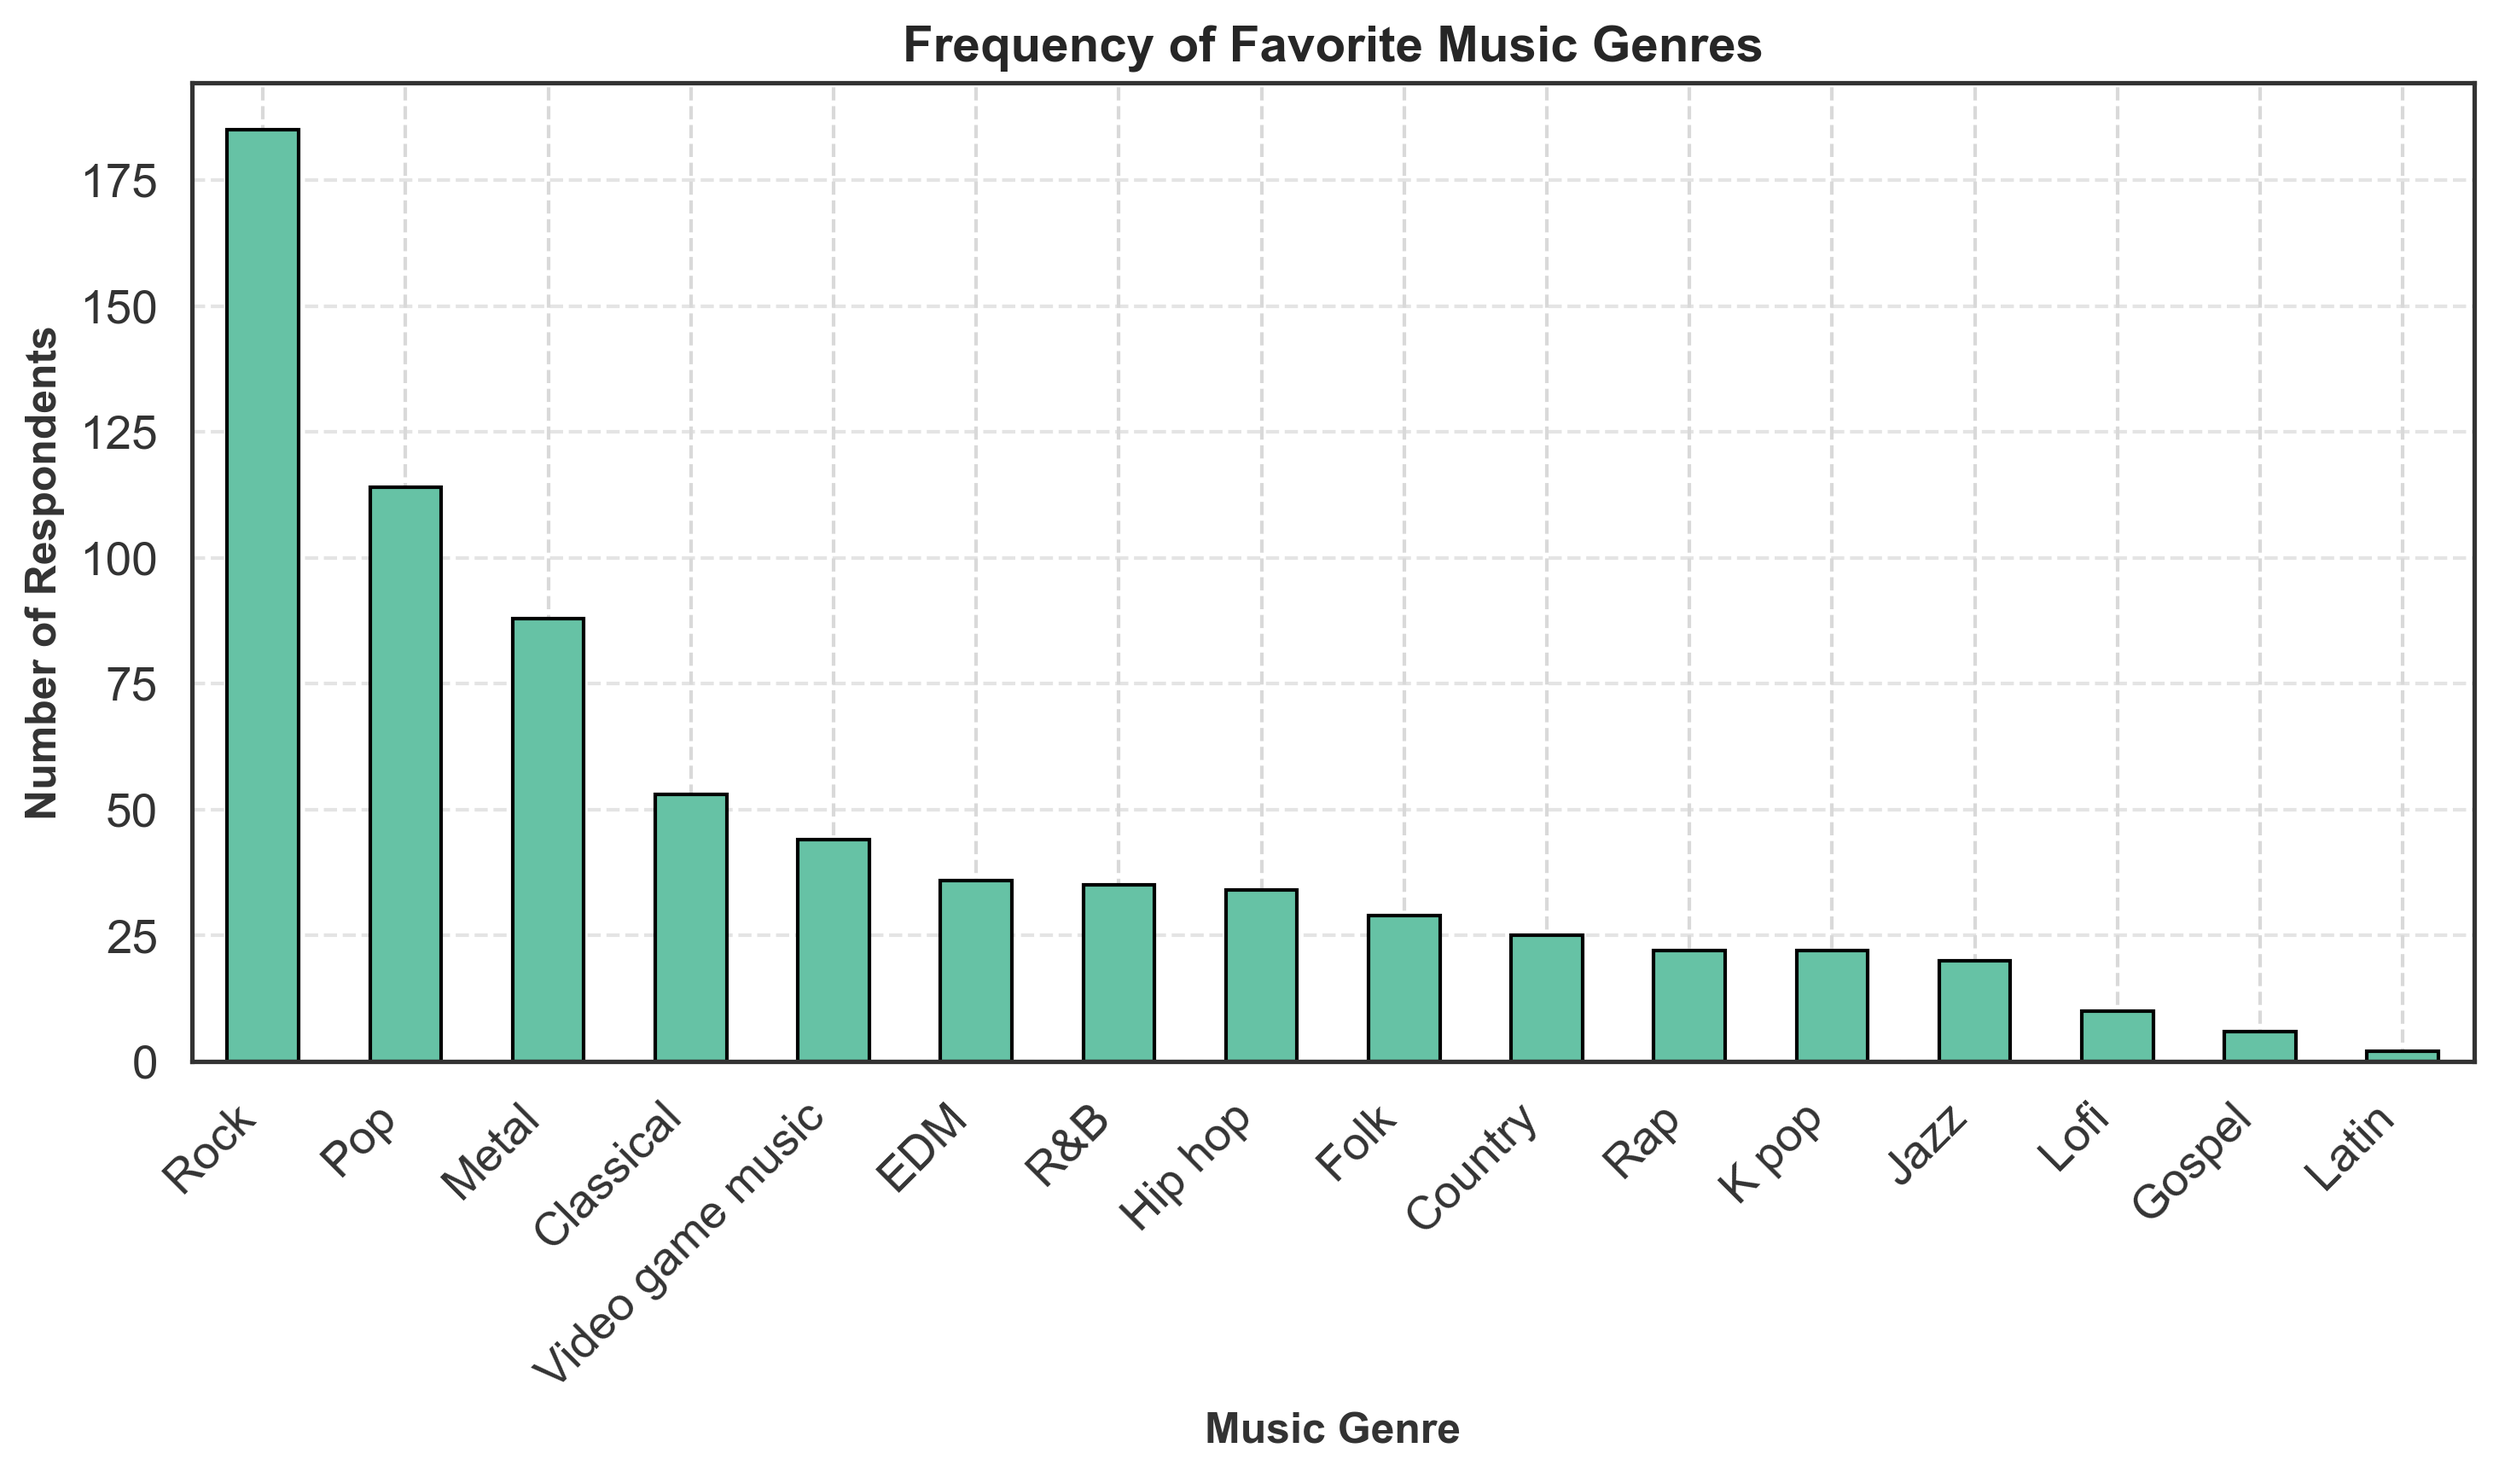
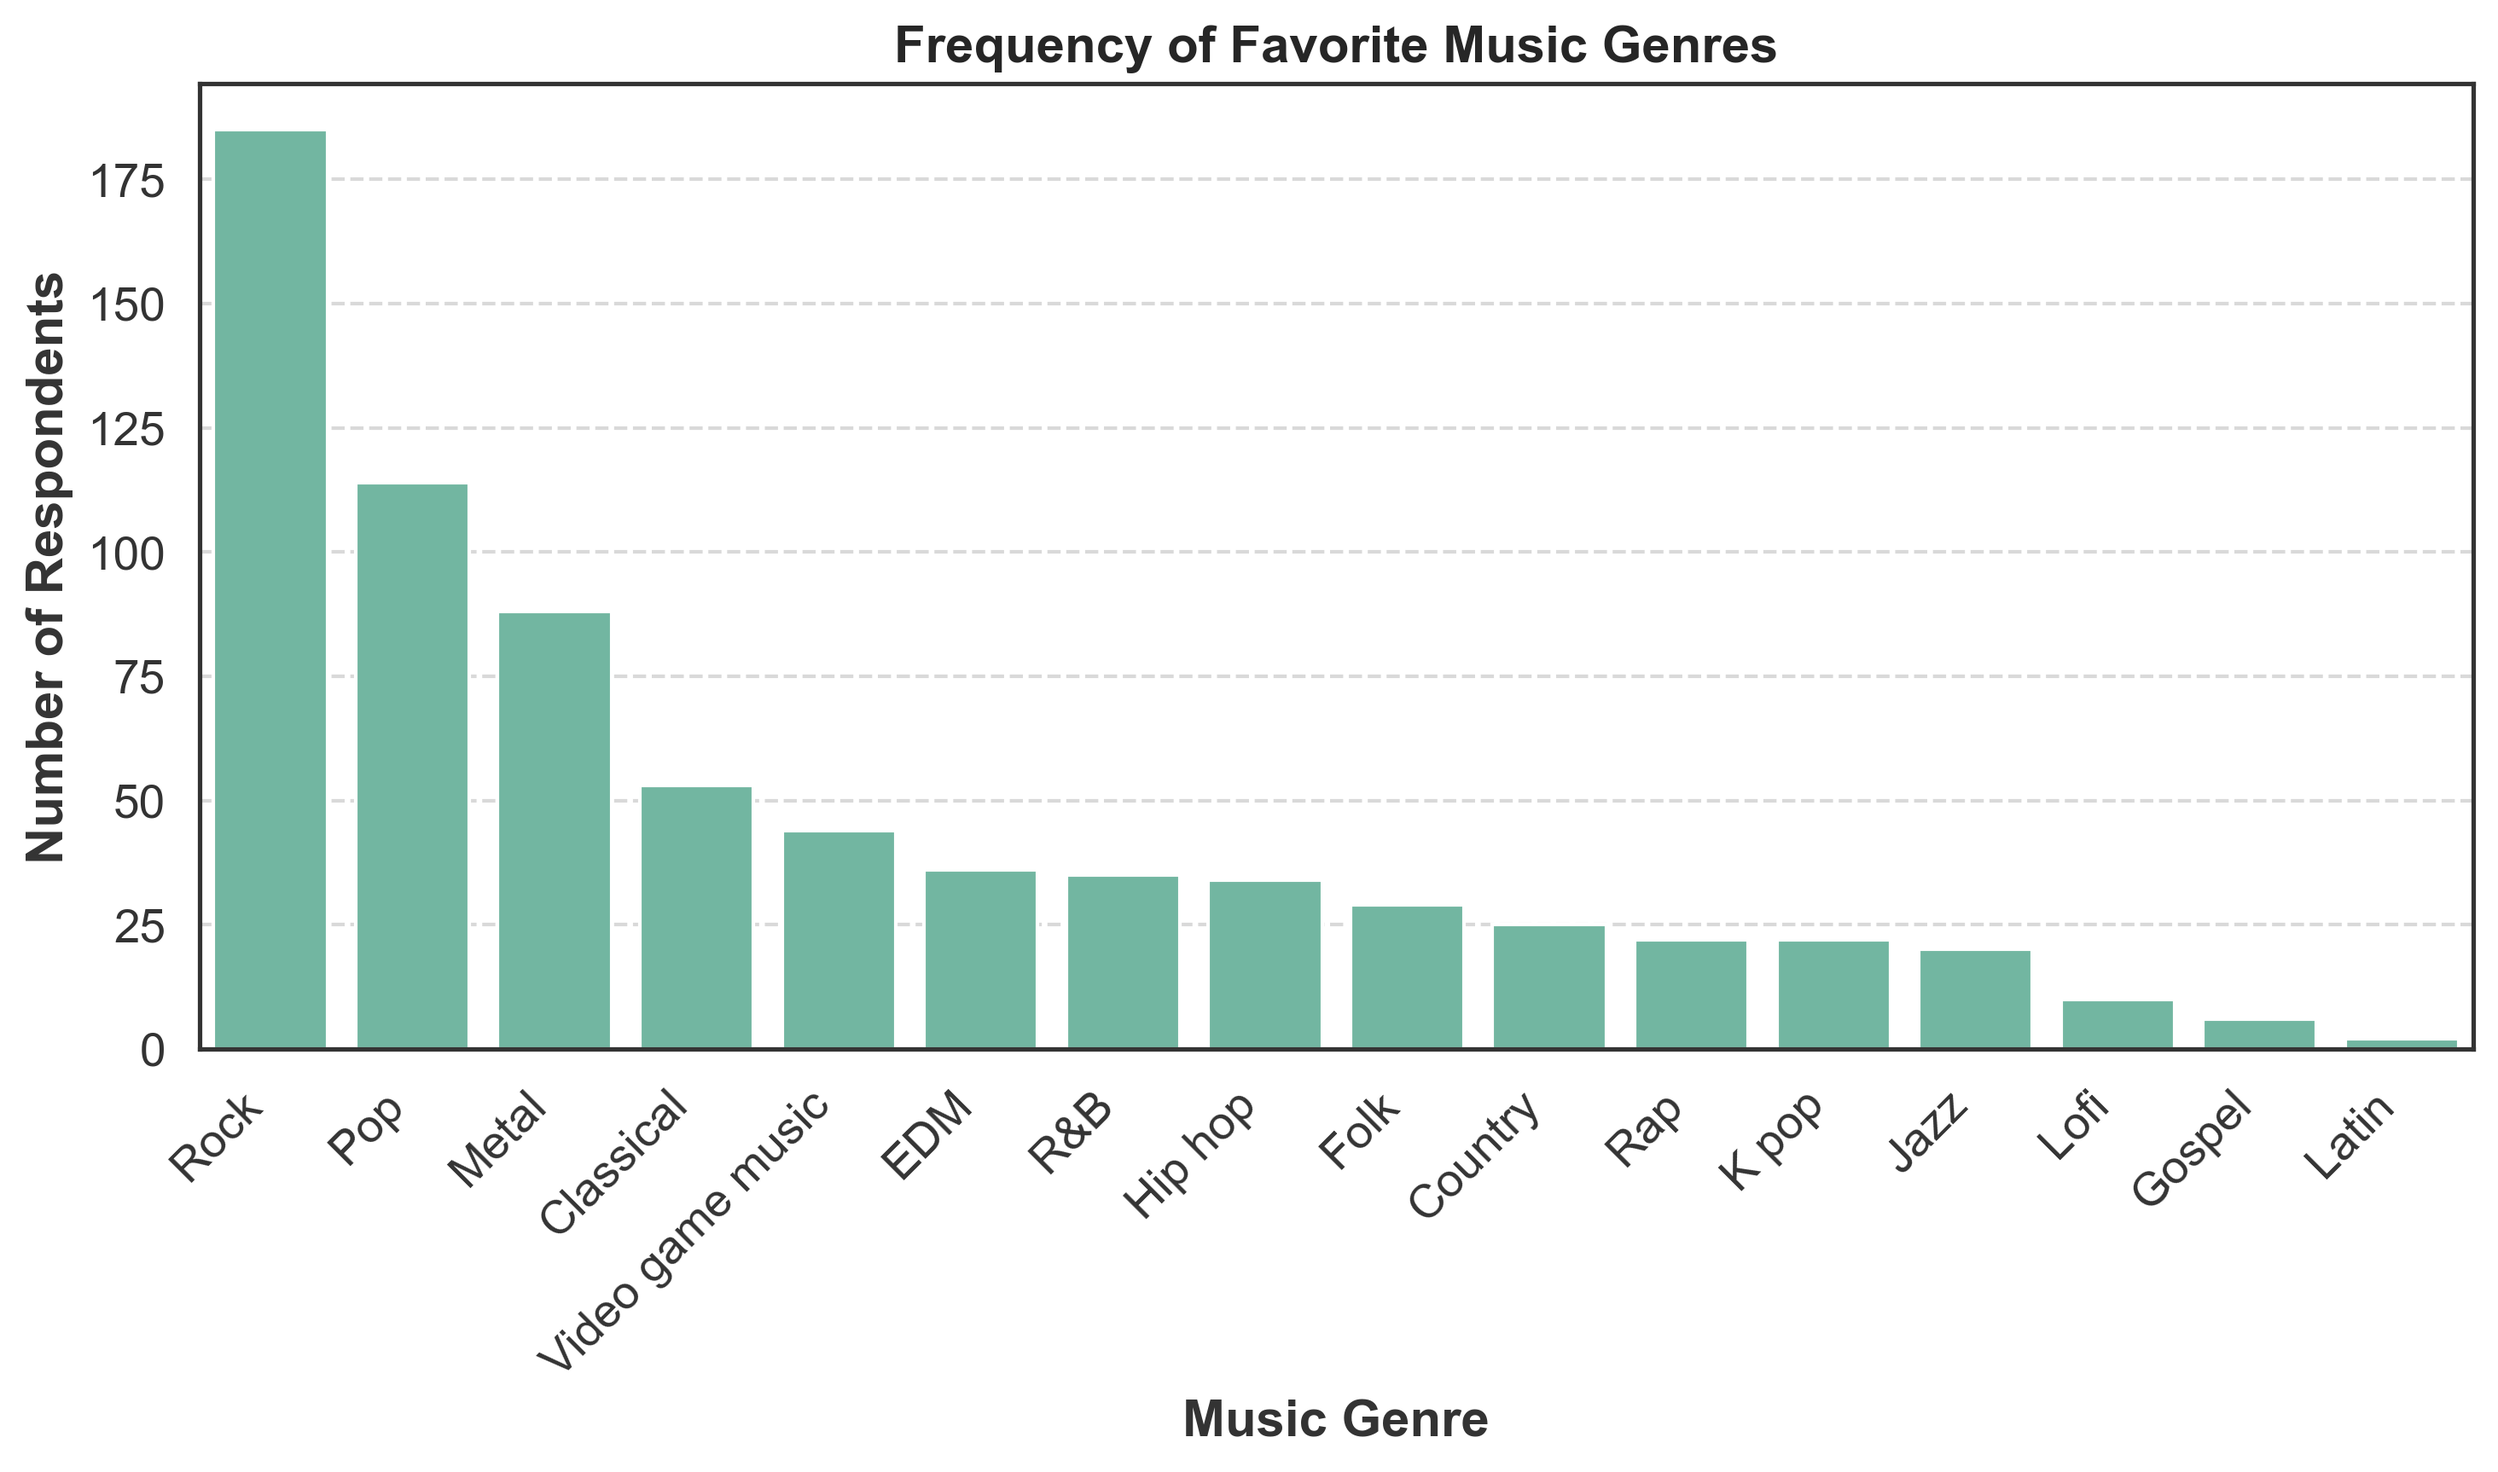
Enhance genre distribution and listening pie charts with improved aesthetics and optional display control

diff --git a/PlotCreator.py b/PlotCreator.py
@@ -20,14 +20,8 @@ plt.rcParams["grid.color"] = "0.85"
 plt.rcParams["grid.linestyle"] = "--"
 plt.rcParams["legend.frameon"] = False
 
-def plot_genre_distribution(df: pd.DataFrame, save_path: str | None = None) -> None:
-    """
-    Creates a bar chart showing the frequency of favorite music genres.
 
-    Parameters:
-        df (pd.DataFrame): The dataset containing 'Fav genre' column.
-        save_path (str, optional): If provided, saves the plot to this path.
-    """
+def plot_genre_distribution(df: pd.DataFrame, save_path: str | None = None, show=True) -> None:
     if "Fav genre" not in df.columns:
         print("⚠ Column 'Fav genre' not found in dataset.")
         return
@@ -35,28 +29,22 @@ def plot_genre_distribution(df: pd.DataFrame, save_path: str | None = None) -> N
     genre_counts = df["Fav genre"].value_counts().sort_values(ascending=False)
 
     fig, ax = plt.subplots(figsize=(10, 6))
-    genre_counts.plot(kind="bar", edgecolor="black", ax=ax)
+    sns.barplot(
+        x=genre_counts.index,
+        y=genre_counts.values,
+        ax=ax
+    )
 
-    ax.set_title("Frequency of Favorite Music Genres", fontsize=14)
-    ax.set_xlabel("Music Genre", fontsize=12)
-    ax.set_ylabel("Number of Respondents", fontsize=12)
+    ax.set_title("Frequency of Favorite Music Genres")
+    ax.set_xlabel("Music Genre")
+    ax.set_ylabel("Number of Respondents")
     plt.xticks(rotation=45, ha="right")
-    ax.grid(axis="y", linestyle="--", alpha=0.7)
+
     plt.tight_layout()
+    show_or_save_plot(fig, save_path, show)
 
-    show_or_save_plot(fig, save_path)
 
-
-def plot_listening_pie(df: pd.DataFrame, save_path: str | None = None, show: bool = True) -> None:
-    """
-    Creates a pie chart showing how many respondents listen to music daily (yes/no),
-    including a legend with absolute counts.
-
-    Parameters:
-        df (pd.DataFrame): Dataset containing 'Hours per day' column.
-        save_path (str, optional): If provided, saves the plot to this path.
-        show (bool): Whether to display the plot (default True).
-    """
+def plot_listening_pie(df: pd.DataFrame, save_path: str | None = None, show=True) -> None:
     if "Hours per day" not in df.columns:
         print("⚠ Column 'Hours per day' not found in dataset.")
         return
@@ -72,9 +60,9 @@ def plot_listening_pie(df: pd.DataFrame, save_path: str | None = None, show: boo
     labels = counts.index
     values = counts.values
 
-    colors = ["#4CAF50", "#E57373"]  # zelená = ano, červená = ne
+    # get two nice colors from seaborn palette
+    colors = sns.color_palette("Set2")[:2]
 
-    # Vykreslení koláče
     fig, ax = plt.subplots(figsize=(6, 6))
     wedges, texts, autotexts = ax.pie(
         values,
@@ -89,16 +77,17 @@ def plot_listening_pie(df: pd.DataFrame, save_path: str | None = None, show: boo
     ax.legend(
         wedges,
         legend_labels,
-        title="Listening daily",
+        title="Listening Daily",
         loc="center left",
         bbox_to_anchor=(1, 0.5),
         fontsize=10
     )
 
-    ax.set_title("Do people listen to music daily?", fontsize=14)
+    ax.set_title("Do People Listen to Music Daily?")
     plt.tight_layout()
 
     show_or_save_plot(fig, save_path, show)
+
 
 def show_or_save_plot(fig: plt.Figure, save_path: str | None = None, show: bool = True) -> None:
     """
